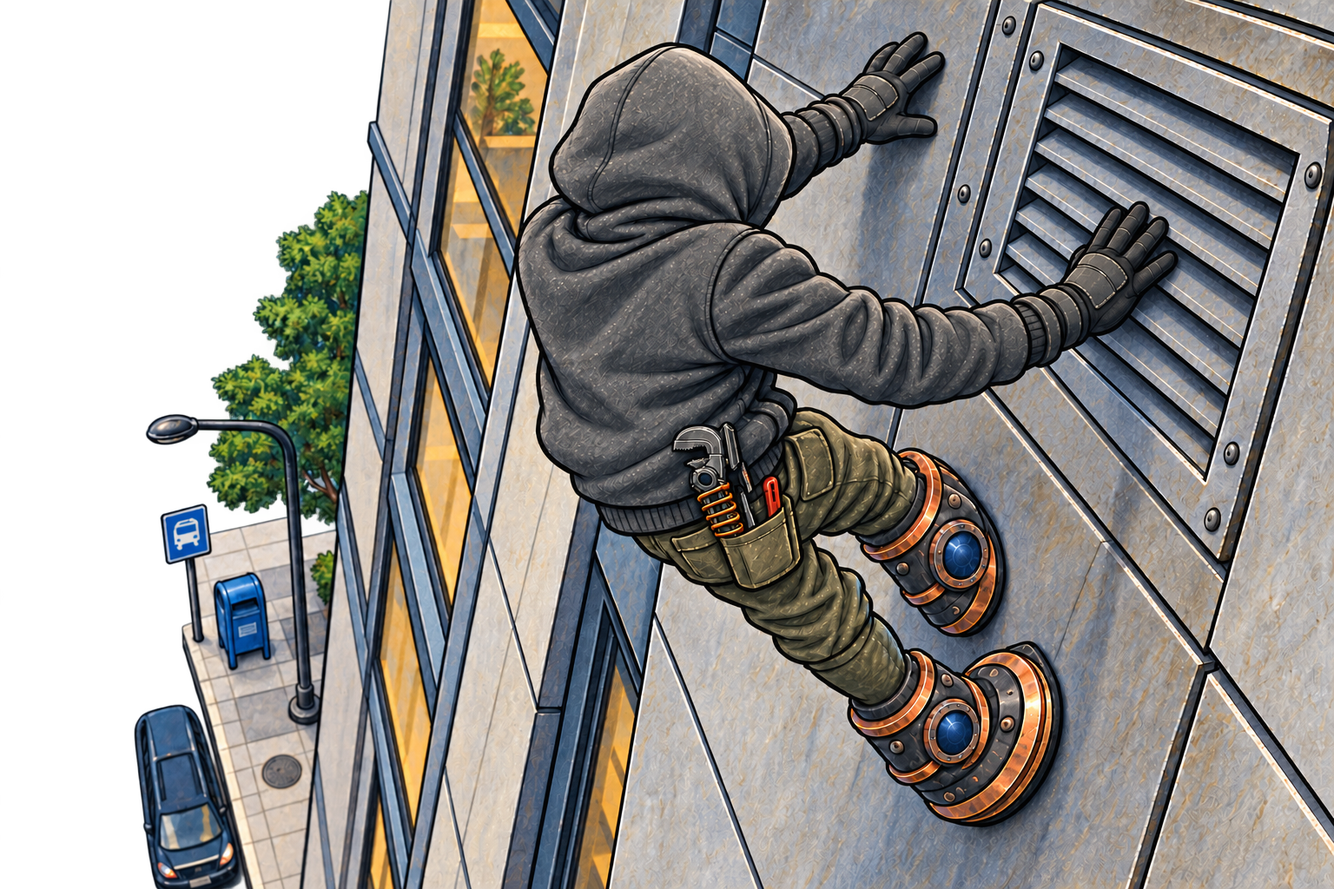
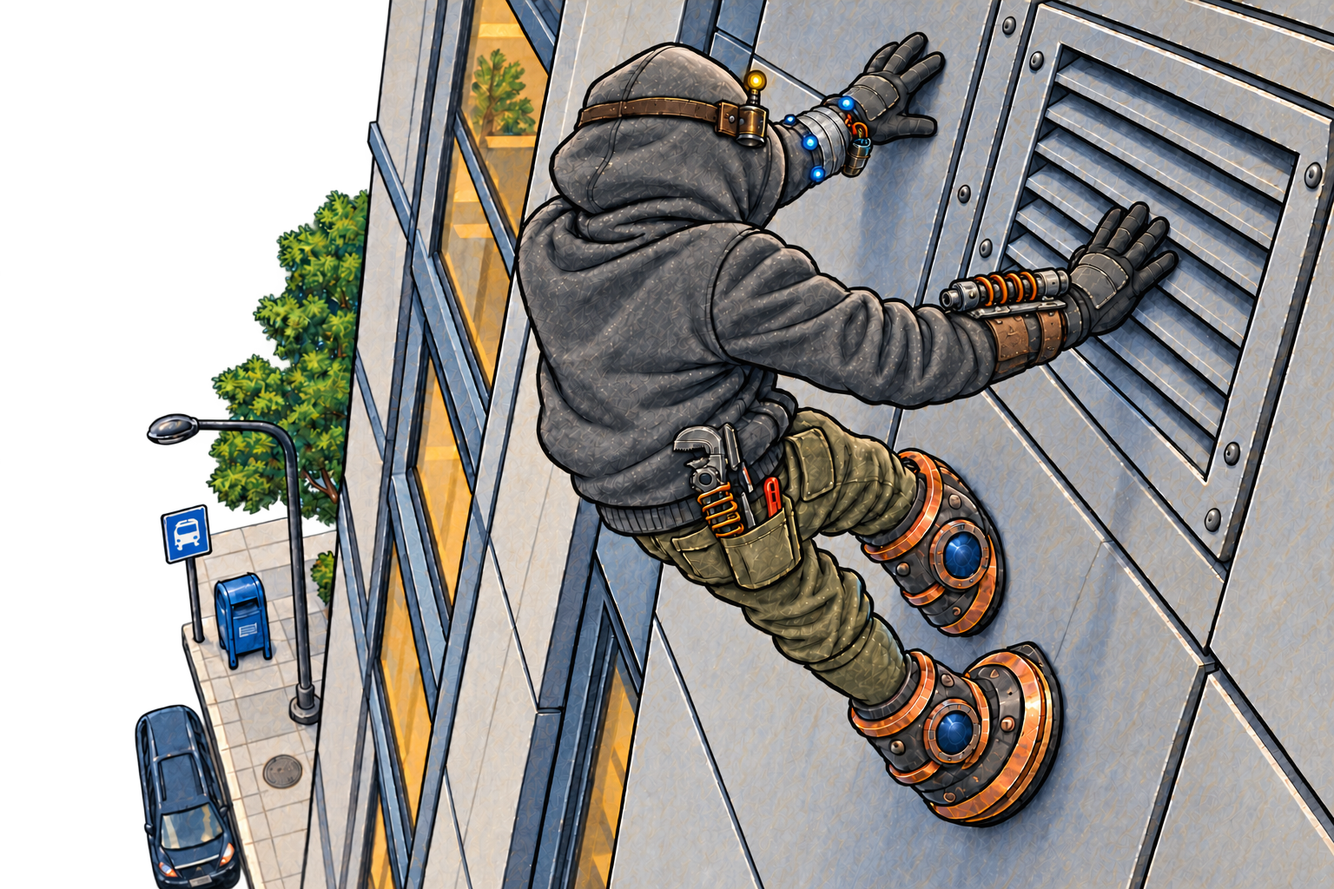
Keep hero loadout consistent across Can Opener artwork

diff --git a/artwork/tech-hero/2026-09-23/index.html b/artwork/tech-hero/2026-09-23/index.html
@@ -1,5 +1,5 @@
 <!doctype html><html lang="en"><head><meta charset="utf-8"><meta name="viewport" content="width=device-width,initial-scale=1"><title>Tech Hero artwork · Paths of Wonder</title><style>
 *{box-sizing:border-box}html{background:#e5dac4;color:#242a30}body{margin:0;font:17px/1.55 system-ui,-apple-system,sans-serif}header,main,.end{max-width:1480px;margin:auto;padding:32px clamp(16px,4vw,56px)}header{padding-bottom:12px}h1,h2{font-family:Georgia,serif;line-height:1.15;font-weight:500}h1{font-size:clamp(32px,5vw,54px);margin:8px 0 20px}h2{font-size:28px;margin:8px 0}.intro{max-width:830px}.eyebrow,.label span{font-size:13px;letter-spacing:.06em;text-transform:uppercase;color:#635334}a{color:#314e46;text-underline-offset:4px}nav,.controls{display:flex;flex-wrap:wrap;gap:8px;margin:20px 0}nav a,button,footer a{min-height:44px;display:inline-flex;align-items:center;padding:9px 13px;border-radius:8px}nav a,button{border:1px solid #b6a88d;text-decoration:none;background:#f5efdf;font:inherit;color:inherit;cursor:pointer}button[aria-pressed=true]{background:#314e46;color:#fff}a:focus-visible,button:focus-visible{outline:3px solid #96612b;outline-offset:3px}main{display:grid;grid-template-columns:repeat(2,minmax(0,1fr));gap:24px;padding-top:12px}article{background:#f4eddb;border:1px solid #c6b99d;border-radius:10px;overflow:hidden;scroll-margin-top:16px}.label{padding:20px 24px 4px}.label p{font-size:14px;color:#655c48;margin:8px 0}.page{background:#f4eddb;padding:8px 16px}.art{display:block}img{display:block;width:100%;height:auto;max-height:620px;object-fit:contain}.context{display:none;font:20px/1.65 Georgia,serif;padding:8px 18px;white-space:pre-line}.reading .context{display:block}.reading .spot .art{max-width:430px;margin:auto}.large .context{font-size:25px}footer{display:flex;justify-content:space-between;flex-wrap:wrap;padding:8px 12px 14px}.end{color:#635334} @media(max-width:700px){main{grid-template-columns:1fr}.label{padding:18px 18px 4px}.page{padding:8px}.context{padding:8px 14px}img{max-height:none}}@media print{nav,.controls,footer{display:none}main{display:block}article{break-inside:avoid;margin:20px 0}}
-</style></head><body><header id="top"><div class="eyebrow">Paths of Wonder · Tech Hero · Artwork review</div><h1>The Can Opener, illustrated</h1><div class="intro"><p>Seventeen story illustrations and two color tool references. The latest revisions are collected here on warm parchment.</p><p>The hero’s face, skin, and hair stay hidden. The Can Opener’s energy blade is off when carried or used as a tool; the Stompers scene has it lying flat on the workbench.</p><p>These are review drafts. Suggested paragraph placements use your exact current text and do not modify the app or stories.</p></div><div class="controls"><button id="context-toggle" aria-pressed="false">Show story context</button><button id="type-toggle" aria-pressed="false">Larger reading text</button><a href="PLACEMENTS.md">Placement notes</a></div><nav aria-label="Illustrations"><a href="#01-garage-lab">The garage lab</a><a href="#02-old-sandwich">The very old sandwich</a><a href="#03-launcher-mishap">More power. Probably.</a><a href="#04-wheel-pop">THWOOM!</a><a href="#05-shield-cover-me">Shield Cover Me</a><a href="#06-asher-portable">Asher Portable</a><a href="#07-magnet-mishap">Magnet boot testing</a><a href="#08-stompers">The Stompers</a><a href="#09-up-the-wall">Up the wall</a><a href="#10-full-loadout">Full loadout</a><a href="#11-old-cannery">The old cannery</a><a href="#12-under-the-awning">Like a bat</a><a href="#13-max-office">An office fit for Max</a><a href="#14-max-on-stage">Max Grabs takes the stage</a><a href="#15-bot-pileup">Forklifts and rocket feet</a><a href="#16-precision">Precision</a><a href="#17-neighborhood-safe">The good kind of quiet</a><a href="#18-can-opener-active">The Can Opener — active</a><a href="#19-can-opener-tool-mode">The Can Opener — tool mode</a></nav></header><main><article id="01-garage-lab" class="opening"><div class="label"><span>opening</span><h2>The garage lab</h2><p>Scene 001 · Getting Home · after paragraph 7</p></div><div class="page"><div class="context before"><p>The voice comes from your computer: your trusty AI assistant and friend, Asher.</p></div><a class="art" href="01-garage-lab.png" aria-label="Open full-size The garage lab"><img src="01-garage-lab.png" alt="A garage workbench filled with tools, salvaged parts, a backpack, and Asher’s computer." loading="lazy"></a><div class="context after"><p>“Well, Asher, I got some storage drives, scrap metal I can melt down for other uses, a few chips, and the real win here…”</p></div></div><footer><a href="01-garage-lab.png" download>Download PNG</a><a href="#top">Back to top</a></footer></article><article id="02-old-sandwich" class="spot"><div class="label"><span>spot</span><h2>The very old sandwich</h2><p>Scene 008 · The Axe Blade · after paragraph 4</p></div><div class="page"><div class="context before"><p>The bot spins around, confused, and the cabinet door on its belly flaps open. A screwdriver falls out. Then a tape measure. Then a very old sandwich. That’s when you see your opening: a panel on its back, right between the shoulders.</p></div><a class="art" href="02-old-sandwich.png" aria-label="Open full-size The very old sandwich"><img src="02-old-sandwich.png" alt="A moldy sandwich falls from the Construction Bot’s open tool cabinet with a PLOP." loading="lazy"></a><div class="context after"><p>One more swing. The blade cuts the panel wide open, sparks fly, and the bot’s foot thrusters sputter out. It sits down with a big THUNK, like it’s taking a nap.</p></div></div><footer><a href="02-old-sandwich.png" download>Download PNG</a><a href="#top">Back to top</a></footer></article><article id="03-launcher-mishap" class="spot"><div class="label"><span>spot</span><h2>More power. Probably.</h2><p>Scene 021 · More Power · after paragraph 7</p></div><div class="page"><div class="context before"><p>You stand there with an empty wrist brace and your hair sticking straight up.</p></div><a class="art" href="03-launcher-mishap.png" aria-label="Open full-size More power. Probably."><img src="03-launcher-mishap.png" alt="A rock launcher is stuck backward in the wall; a gloved wrist has an empty brace." loading="lazy"></a><div class="context after"><p>“Ok,” you say. “Less power.”</p></div></div><footer><a href="03-launcher-mishap.png" download>Download PNG</a><a href="#top">Back to top</a></footer></article><article id="04-wheel-pop" class="spot"><div class="label"><span>spot</span><h2>THWOOM!</h2><p>Scene 026 · Heavier Than Expected · after paragraph 7</p></div><div class="page"><div class="context before"><p>The rock smashes into the front left wheel, and it pops right off its axle. The Load-Bot tips forward, spins in a slow, sad circle, and crashes onto its face with a BOOM that sets off a car alarm.</p></div><a class="art" href="04-wheel-pop.png" aria-label="Open full-size THWOOM!"><img src="04-wheel-pop.png" alt="The smiling Load-Bot loses a wheel beside the market, with a THWOOM." loading="lazy"></a><div class="context after"><p>It’s down, but it’s not out. Its forklift arms are still flailing, and your coil is empty. But it can’t reach behind itself.</p></div></div><footer><a href="04-wheel-pop.png" download>Download PNG</a><a href="#top">Back to top</a></footer></article><article id="05-shield-cover-me" class="feature"><div class="label"><span>feature</span><h2>Shield Cover Me</h2><p>Scene 033 · Shield Cover Me · after paragraph 3</p></div><div class="page"><div class="context before"><p>The stick skids off the light in a shower of sparks. The shield flickers, but it holds! The bot hits it again, and again, and you push forward behind the shield one step at a time. But you can’t get around it, and you can’t exactly fight with a shield and a thumb.</p></div><a class="art" href="05-shield-cover-me.png?v=3" aria-label="Open full-size Shield Cover Me"><img src="05-shield-cover-me.png?v=3" alt="A duct-taped armband on the hero’s left forearm, with glowing blue dots and a wired side power pack, projects an energy shield against a Security Bot’s sparking baton." loading="lazy"></a><div class="context after"><p>“ASHER! SHIELD! COVER ME!”</p></div></div><footer><a href="05-shield-cover-me.png?v=3" download>Download PNG</a><a href="#top">Back to top</a></footer></article><article id="06-asher-portable" class="opening"><div class="label"><span>opening</span><h2>Asher Portable</h2><p>Scene 041 · Miniaturizing Asher · after paragraph 6</p></div><div class="page"><div class="context before"><p>“Welcome to the team, Asher Portable.”</p></div><a class="art" href="06-asher-portable.png" aria-label="Open full-size Asher Portable"><img src="06-asher-portable.png" alt="Asher Portable: goggles with a clip-on display, camera, earbud, and yellow-bulb signal booster." loading="lazy"></a><div class="context after"><p>“That is simply a description of what I am, sir.”</p></div></div><footer><a href="06-asher-portable.png" download>Download PNG</a><a href="#top">Back to top</a></footer></article><article id="07-magnet-mishap" class="spot"><div class="label"><span>spot</span><h2>Magnet boot testing</h2><p>Scene 044 · Magnet Boot Testing · after paragraph 9</p></div><div class="page"><div class="context before"><p>A wrench slides across the workbench and sticks to your left ankle. Then a screwdriver. Then a whole handful of bolts.</p></div><a class="art" href="07-magnet-mishap.png" aria-label="Open full-size Magnet boot testing"><img src="07-magnet-mishap.png" alt="Magnet boots stick to the refrigerator and floor plate, with tools clinging to one ankle." loading="lazy"></a><div class="context after"><p>“You are collecting tools at an impressive rate, sir.”</p></div></div><footer><a href="07-magnet-mishap.png" download>Download PNG</a><a href="#top">Back to top</a></footer></article><article id="08-stompers" class="feature"><div class="label"><span>feature</span><h2>The Stompers</h2><p>Scene 045 · The Stompers · after paragraph 9</p></div><div class="page"><div class="context before"><p>“The Stompers.”</p></div><a class="art" href="08-stompers.png" aria-label="Open full-size The Stompers"><img src="08-stompers.png" alt="The fully covered hero bounces toward the workbench; the powered-down Can Opener lies flat on the wood." loading="lazy"></a><div class="context after"><p>A pause.</p></div></div><footer><a href="08-stompers.png" download>Download PNG</a><a href="#top">Back to top</a></footer></article><article id="09-up-the-wall" class="spot"><div class="label"><span>spot</span><h2>Up the wall</h2><p>Scene 047 · Up the Wall · after paragraph 7</p></div><div class="page"><div class="context before"><p>Clunk. Clunk. Clunk. You walk up the wall one heavy step at a time, staying in the corner where the bot can’t lean out far enough to aim at you. It knows you’re out there somewhere, so it keeps zapping the mailbox just in case.</p></div><a class="art" href="09-up-the-wall.png" aria-label="Open full-size Up the wall"><img src="09-up-the-wall.png" alt="The fully covered hero climbs a steel wall using magnetic boots, with the inactive wrench on their belt." loading="lazy"></a><div class="context after"><p>You reach the top and peek over the edge. The bot has its back to you, skate wheels locked, leaning out over the front of the roof.</p></div></div><footer><a href="09-up-the-wall.png" download>Download PNG</a><a href="#top">Back to top</a></footer></article><article id="10-full-loadout" class="feature"><div class="label"><span>feature</span><h2>Full loadout</h2><p>Scene 049 · Full Loadout · after paragraph 7</p></div><div class="page"><div class="context before"><p>You look out over {world_name} from the roof. The Can Opener, The Wrist Wrock-It, Shield Cover Me, Asher Portable, The Stompers…every single one of them got you up here.</p></div><a class="art" href="10-full-loadout.png?v=2" aria-label="Open full-size Full loadout"><img src="10-full-loadout.png?v=2" alt="The fully covered hero rests on a rooftop with a duct-taped shield armband, other inventions, and a blue-eyed Security Bot." loading="lazy"></a><div class="context after"><p>The bot’s visor goes dark.</p></div></div><footer><a href="10-full-loadout.png?v=2" download>Download PNG</a><a href="#top">Back to top</a></footer></article><article id="11-old-cannery" class="feature"><div class="label"><span>feature</span><h2>The old cannery</h2><p>Scene 053 · A Destination · after paragraph 6</p></div><div class="page"><div class="context before"><p>GRABS AWESOME STRUCTURES. MAKING YOUR NEIGHBORHOOD MINE! The word “MINE” has been crossed out by hand, and “BETTER” is written above it. Under that, in gold letters two feet tall: GAS. WE BLOW YOU AWAY!</p></div><a class="art" href="11-old-cannery.png" aria-label="Open full-size The old cannery"><img src="11-old-cannery.png" alt="The fenced cannery has a rooftop antenna, trucks of broken robots, and gold GAS signs." loading="lazy"></a><div class="context after"><p>You stare at it for a long moment.</p></div></div><footer><a href="11-old-cannery.png" download>Download PNG</a><a href="#top">Back to top</a></footer></article><article id="12-under-the-awning" class="spot"><div class="label"><span>spot</span><h2>Like a bat</h2><p>Scene 054 · Drone Spotted · after paragraph 11</p></div><div class="page"><div class="context before"><p>You catch it with two fingers. Way, WAY too close.</p></div><a class="art" href="12-under-the-awning.png" aria-label="Open full-size Like a bat"><img src="12-under-the-awning.png" alt="The fully covered hero uses magnetic boots beneath an awning as a surveillance drone passes." loading="lazy"></a><div class="context after"><p>So it isn’t just a signal. Somebody is watching the whole neighborhood…and now you know his name.</p></div></div><footer><a href="12-under-the-awning.png" download>Download PNG</a><a href="#top">Back to top</a></footer></article><article id="13-max-office" class="feature"><div class="label"><span>feature</span><h2>An office fit for Max</h2><p>Scene 056 · The Side Window · after paragraph 6</p></div><div class="page"><div class="context before"><p>“Sir, there is a computer on that desk, and it is unlocked. There is a sticky note on the screen. It says ‘Password: password.’”</p></div><a class="art" href="13-max-office.png" aria-label="Open full-size An office fit for Max"><img src="13-max-office.png" alt="Max’s oversized office has a painting of him shaking hands with himself and a password note." loading="lazy"></a><div class="context after"><p>“He didn’t even need it. He left himself logged in.”</p></div></div><footer><a href="13-max-office.png" download>Download PNG</a><a href="#top">Back to top</a></footer></article><article id="14-max-on-stage" class="feature"><div class="label"><span>feature</span><h2>Max Grabs takes the stage</h2><p>Scene 058 · The Man in the Shiny Suit · after paragraph 21</p></div><div class="page"><div class="context before"><p>Standing behind the stage, still as statues, are two Security Bots with steady red eyes. One of them is giving the crowd a thumbs-up.</p></div><a class="art" href="14-max-on-stage.png" aria-label="Open full-size Max Grabs takes the stage"><img src="14-max-on-stage.png" alt="Max Grabs grins on a stage with gold balloons, flying note cards, and Security Bots." loading="lazy"></a><div class="context after"><p>“That is him, sir,” Asher says in your ear.</p></div></div><footer><a href="14-max-on-stage.png" download>Download PNG</a><a href="#top">Back to top</a></footer></article><article id="15-bot-pileup" class="spot"><div class="label"><span>spot</span><h2>Forklifts and rocket feet</h2><p>Scene 060 · The Front Gate · after paragraph 7</p></div><div class="page"><div class="context before"><p>You pop one panel. You pop the other. Pull. Pull. Both sets of eyes fade to soft blue.</p></div><a class="art" href="15-bot-pileup.png" aria-label="Open full-size Forklifts and rocket feet"><img src="15-bot-pileup.png" alt="A Load-Bot and Construction Bot are tangled in a heap, their eyes now blue." loading="lazy"></a><div class="context after"><p>“Sorry, guys,” you say, and you mean it. “I’ll be back for you.”</p></div></div><footer><a href="15-bot-pileup.png" download>Download PNG</a><a href="#top">Back to top</a></footer></article><article id="16-precision" class="feature"><div class="label"><span>feature</span><h2>Precision</h2><p>Scene 066 · Precision · after paragraph 3</p></div><div class="page"><div class="context before"><p>Every terminal goes dark at once. The Robot Improver 3 makes a sound like a very large balloon letting go, and its lights go out row by row. On the roof, the antenna stops humming.</p></div><a class="art" href="16-precision.png?v=2" aria-label="Open full-size Precision"><img src="16-precision.png?v=2" alt="A precise blue-white discharge passes Max and strikes the cannery’s control terminals." loading="lazy"></a><div class="context after"><p>And all across {world_name}, in alleys and empty lots and the middle of Elm Street, every haywire robot slows down, lowers its arms, and stops. Hundreds of flickering red lights fade to a soft, calm blue.</p></div></div><footer><a href="16-precision.png?v=2" download>Download PNG</a><a href="#top">Back to top</a></footer></article><article id="17-neighborhood-safe" class="feature"><div class="label"><span>feature</span><h2>The good kind of quiet</h2><p>Scene 068 · Neighborhood Safe · after paragraph 5</p></div><div class="page"><div class="context before"><p>You nod back, and you keep walking.</p></div><a class="art" href="17-neighborhood-safe.png" aria-label="Open full-size The good kind of quiet"><img src="17-neighborhood-safe.png" alt="A child pats a peaceful robot, Mrs. Ruiz salutes, and the fully covered hero walks home." loading="lazy"></a><div class="context after"><p>You pass the top of Main Street. Mr. Lin’s bench is still gone. There are four bolts in the sidewalk where it used to be, and nothing else.</p></div></div><footer><a href="17-neighborhood-safe.png" download>Download PNG</a><a href="#top">Back to top</a></footer></article><article id="18-can-opener-active" class="reference"><div class="label"><span>reference</span><h2>The Can Opener — active</h2><p>Scene 005 · Building The Can Opener · after paragraph 11</p></div><div class="page"><div class="context before"><p>The wrench head shifts with a sharp mechanical click, and a crackling energy blade snaps out along the side of the head like an axe made of lightning.</p></div><a class="art" href="18-can-opener-active.png" aria-label="Open full-size The Can Opener — active"><img src="18-can-opener-active.png" alt="The Can Opener in active mode: steel wrench, copper coils, a blue power core, and an energy axe blade." loading="lazy"></a><div class="context after"><p>You stare at it.</p></div></div><footer><a href="18-can-opener-active.png" download>Download PNG</a><a href="#top">Back to top</a></footer></article><article id="19-can-opener-tool-mode" class="reference"><div class="label"><span>reference</span><h2>The Can Opener — tool mode</h2><p>Continuity reference · powered-down tool</p></div><div class="page"><a class="art" href="19-can-opener-tool-mode.png" aria-label="Open full-size The Can Opener — tool mode"><img src="19-can-opener-tool-mode.png" alt="The Can Opener in tool mode: steel jaws, copper coils, a dark core, and no deployed blade." loading="lazy"></a></div><footer><a href="19-can-opener-tool-mode.png" download>Download PNG</a><a href="#top">Back to top</a></footer></article></main><div class="end">Tap an image for its full-size PNG. <a href="README.md">Production notes</a> · <a href="prompts.json">Prompt set</a></div><script>
+</style></head><body><header id="top"><div class="eyebrow">Paths of Wonder · Tech Hero · Artwork review</div><h1>The Can Opener, illustrated</h1><div class="intro"><p>Seventeen story illustrations and two color tool references. The latest revisions are collected here on warm parchment.</p><p>The hero’s face, skin, and hair stay hidden. The Can Opener’s energy blade is off when carried or used as a tool; the Stompers scene has it lying flat on the workbench.</p><p>These are review drafts. Suggested paragraph placements use your exact current text and do not modify the app or stories.</p></div><div class="controls"><button id="context-toggle" aria-pressed="false">Show story context</button><button id="type-toggle" aria-pressed="false">Larger reading text</button><a href="PLACEMENTS.md">Placement notes</a></div><nav aria-label="Illustrations"><a href="#01-garage-lab">The garage lab</a><a href="#02-old-sandwich">The very old sandwich</a><a href="#03-launcher-mishap">More power. Probably.</a><a href="#04-wheel-pop">THWOOM!</a><a href="#05-shield-cover-me">Shield Cover Me</a><a href="#06-asher-portable">Asher Portable</a><a href="#07-magnet-mishap">Magnet boot testing</a><a href="#08-stompers">The Stompers</a><a href="#09-up-the-wall">Up the wall</a><a href="#10-full-loadout">Full loadout</a><a href="#11-old-cannery">The old cannery</a><a href="#12-under-the-awning">Like a bat</a><a href="#13-max-office">An office fit for Max</a><a href="#14-max-on-stage">Max Grabs takes the stage</a><a href="#15-bot-pileup">Forklifts and rocket feet</a><a href="#16-precision">Precision</a><a href="#17-neighborhood-safe">The good kind of quiet</a><a href="#18-can-opener-active">The Can Opener — active</a><a href="#19-can-opener-tool-mode">The Can Opener — tool mode</a></nav></header><main><article id="01-garage-lab" class="opening"><div class="label"><span>opening</span><h2>The garage lab</h2><p>Scene 001 · Getting Home · after paragraph 7</p></div><div class="page"><div class="context before"><p>The voice comes from your computer: your trusty AI assistant and friend, Asher.</p></div><a class="art" href="01-garage-lab.png" aria-label="Open full-size The garage lab"><img src="01-garage-lab.png" alt="A garage workbench filled with tools, salvaged parts, a backpack, and Asher’s computer." loading="lazy"></a><div class="context after"><p>“Well, Asher, I got some storage drives, scrap metal I can melt down for other uses, a few chips, and the real win here…”</p></div></div><footer><a href="01-garage-lab.png" download>Download PNG</a><a href="#top">Back to top</a></footer></article><article id="02-old-sandwich" class="spot"><div class="label"><span>spot</span><h2>The very old sandwich</h2><p>Scene 008 · The Axe Blade · after paragraph 4</p></div><div class="page"><div class="context before"><p>The bot spins around, confused, and the cabinet door on its belly flaps open. A screwdriver falls out. Then a tape measure. Then a very old sandwich. That’s when you see your opening: a panel on its back, right between the shoulders.</p></div><a class="art" href="02-old-sandwich.png" aria-label="Open full-size The very old sandwich"><img src="02-old-sandwich.png" alt="A moldy sandwich falls from the Construction Bot’s open tool cabinet with a PLOP." loading="lazy"></a><div class="context after"><p>One more swing. The blade cuts the panel wide open, sparks fly, and the bot’s foot thrusters sputter out. It sits down with a big THUNK, like it’s taking a nap.</p></div></div><footer><a href="02-old-sandwich.png" download>Download PNG</a><a href="#top">Back to top</a></footer></article><article id="03-launcher-mishap" class="spot"><div class="label"><span>spot</span><h2>More power. Probably.</h2><p>Scene 021 · More Power · after paragraph 7</p></div><div class="page"><div class="context before"><p>You stand there with an empty wrist brace and your hair sticking straight up.</p></div><a class="art" href="03-launcher-mishap.png" aria-label="Open full-size More power. Probably."><img src="03-launcher-mishap.png" alt="A rock launcher is stuck backward in the wall; a gloved wrist has an empty brace." loading="lazy"></a><div class="context after"><p>“Ok,” you say. “Less power.”</p></div></div><footer><a href="03-launcher-mishap.png" download>Download PNG</a><a href="#top">Back to top</a></footer></article><article id="04-wheel-pop" class="spot"><div class="label"><span>spot</span><h2>THWOOM!</h2><p>Scene 026 · Heavier Than Expected · after paragraph 7</p></div><div class="page"><div class="context before"><p>The rock smashes into the front left wheel, and it pops right off its axle. The Load-Bot tips forward, spins in a slow, sad circle, and crashes onto its face with a BOOM that sets off a car alarm.</p></div><a class="art" href="04-wheel-pop.png" aria-label="Open full-size THWOOM!"><img src="04-wheel-pop.png" alt="The smiling Load-Bot loses a wheel beside the market, with a THWOOM." loading="lazy"></a><div class="context after"><p>It’s down, but it’s not out. Its forklift arms are still flailing, and your coil is empty. But it can’t reach behind itself.</p></div></div><footer><a href="04-wheel-pop.png" download>Download PNG</a><a href="#top">Back to top</a></footer></article><article id="05-shield-cover-me" class="feature"><div class="label"><span>feature</span><h2>Shield Cover Me</h2><p>Scene 033 · Shield Cover Me · after paragraph 3</p></div><div class="page"><div class="context before"><p>The stick skids off the light in a shower of sparks. The shield flickers, but it holds! The bot hits it again, and again, and you push forward behind the shield one step at a time. But you can’t get around it, and you can’t exactly fight with a shield and a thumb.</p></div><a class="art" href="05-shield-cover-me.png?v=4" aria-label="Open full-size Shield Cover Me"><img src="05-shield-cover-me.png?v=4" alt="A duct-taped armband on the hero’s left forearm, with glowing blue dots and a wired side power pack, projects an energy shield against a Security Bot’s sparking baton." loading="lazy"></a><div class="context after"><p>“ASHER! SHIELD! COVER ME!”</p></div></div><footer><a href="05-shield-cover-me.png?v=4" download>Download PNG</a><a href="#top">Back to top</a></footer></article><article id="06-asher-portable" class="opening"><div class="label"><span>opening</span><h2>Asher Portable</h2><p>Scene 041 · Miniaturizing Asher · after paragraph 6</p></div><div class="page"><div class="context before"><p>“Welcome to the team, Asher Portable.”</p></div><a class="art" href="06-asher-portable.png" aria-label="Open full-size Asher Portable"><img src="06-asher-portable.png" alt="Asher Portable: goggles with a clip-on display, camera, earbud, and yellow-bulb signal booster." loading="lazy"></a><div class="context after"><p>“That is simply a description of what I am, sir.”</p></div></div><footer><a href="06-asher-portable.png" download>Download PNG</a><a href="#top">Back to top</a></footer></article><article id="07-magnet-mishap" class="spot"><div class="label"><span>spot</span><h2>Magnet boot testing</h2><p>Scene 044 · Magnet Boot Testing · after paragraph 9</p></div><div class="page"><div class="context before"><p>A wrench slides across the workbench and sticks to your left ankle. Then a screwdriver. Then a whole handful of bolts.</p></div><a class="art" href="07-magnet-mishap.png" aria-label="Open full-size Magnet boot testing"><img src="07-magnet-mishap.png" alt="Magnet boots stick to the refrigerator and floor plate, with tools clinging to one ankle." loading="lazy"></a><div class="context after"><p>“You are collecting tools at an impressive rate, sir.”</p></div></div><footer><a href="07-magnet-mishap.png" download>Download PNG</a><a href="#top">Back to top</a></footer></article><article id="08-stompers" class="feature"><div class="label"><span>feature</span><h2>The Stompers</h2><p>Scene 045 · The Stompers · after paragraph 9</p></div><div class="page"><div class="context before"><p>“The Stompers.”</p></div><a class="art" href="08-stompers.png?v=5" aria-label="Open full-size The Stompers"><img src="08-stompers.png?v=5" alt="The fully covered hero wears goggles and a left-arm shield band and right-arm Wrist Wrock-It while bouncing toward the workbench; the inactive Can Opener lies flat on the wood." loading="lazy"></a><div class="context after"><p>A pause.</p></div></div><footer><a href="08-stompers.png?v=5" download>Download PNG</a><a href="#top">Back to top</a></footer></article><article id="09-up-the-wall" class="spot"><div class="label"><span>spot</span><h2>Up the wall</h2><p>Scene 047 · Up the Wall · after paragraph 7</p></div><div class="page"><div class="context before"><p>Clunk. Clunk. Clunk. You walk up the wall one heavy step at a time, staying in the corner where the bot can’t lean out far enough to aim at you. It knows you’re out there somewhere, so it keeps zapping the mailbox just in case.</p></div><a class="art" href="09-up-the-wall.png?v=5" aria-label="Open full-size Up the wall"><img src="09-up-the-wall.png?v=5" alt="The hooded hero climbs a steel wall in magnetic boots, wearing goggles and a left-arm shield band and right-arm Wrist Wrock-It, with the inactive wrench on their belt." loading="lazy"></a><div class="context after"><p>You reach the top and peek over the edge. The bot has its back to you, skate wheels locked, leaning out over the front of the roof.</p></div></div><footer><a href="09-up-the-wall.png?v=5" download>Download PNG</a><a href="#top">Back to top</a></footer></article><article id="10-full-loadout" class="feature"><div class="label"><span>feature</span><h2>Full loadout</h2><p>Scene 049 · Full Loadout · after paragraph 7</p></div><div class="page"><div class="context before"><p>You look out over {world_name} from the roof. The Can Opener, The Wrist Wrock-It, Shield Cover Me, Asher Portable, The Stompers…every single one of them got you up here.</p></div><a class="art" href="10-full-loadout.png?v=2" aria-label="Open full-size Full loadout"><img src="10-full-loadout.png?v=2" alt="The fully covered hero rests on a rooftop with a duct-taped shield armband, other inventions, and a blue-eyed Security Bot." loading="lazy"></a><div class="context after"><p>The bot’s visor goes dark.</p></div></div><footer><a href="10-full-loadout.png?v=2" download>Download PNG</a><a href="#top">Back to top</a></footer></article><article id="11-old-cannery" class="feature"><div class="label"><span>feature</span><h2>The old cannery</h2><p>Scene 053 · A Destination · after paragraph 6</p></div><div class="page"><div class="context before"><p>GRABS AWESOME STRUCTURES. MAKING YOUR NEIGHBORHOOD MINE! The word “MINE” has been crossed out by hand, and “BETTER” is written above it. Under that, in gold letters two feet tall: GAS. WE BLOW YOU AWAY!</p></div><a class="art" href="11-old-cannery.png" aria-label="Open full-size The old cannery"><img src="11-old-cannery.png" alt="The fenced cannery has a rooftop antenna, trucks of broken robots, and gold GAS signs." loading="lazy"></a><div class="context after"><p>You stare at it for a long moment.</p></div></div><footer><a href="11-old-cannery.png" download>Download PNG</a><a href="#top">Back to top</a></footer></article><article id="12-under-the-awning" class="spot"><div class="label"><span>spot</span><h2>Like a bat</h2><p>Scene 054 · Drone Spotted · after paragraph 11</p></div><div class="page"><div class="context before"><p>You catch it with two fingers. Way, WAY too close.</p></div><a class="art" href="12-under-the-awning.png?v=5" aria-label="Open full-size Like a bat"><img src="12-under-the-awning.png?v=5" alt="The hooded hero hangs by magnetic boots beneath an awning, wearing goggles and a left-arm shield band and right-arm Wrist Wrock-It, as a surveillance drone passes." loading="lazy"></a><div class="context after"><p>So it isn’t just a signal. Somebody is watching the whole neighborhood…and now you know his name.</p></div></div><footer><a href="12-under-the-awning.png?v=5" download>Download PNG</a><a href="#top">Back to top</a></footer></article><article id="13-max-office" class="feature"><div class="label"><span>feature</span><h2>An office fit for Max</h2><p>Scene 056 · The Side Window · after paragraph 6</p></div><div class="page"><div class="context before"><p>“Sir, there is a computer on that desk, and it is unlocked. There is a sticky note on the screen. It says ‘Password: password.’”</p></div><a class="art" href="13-max-office.png" aria-label="Open full-size An office fit for Max"><img src="13-max-office.png" alt="Max’s oversized office has a painting of him shaking hands with himself and a password note." loading="lazy"></a><div class="context after"><p>“He didn’t even need it. He left himself logged in.”</p></div></div><footer><a href="13-max-office.png" download>Download PNG</a><a href="#top">Back to top</a></footer></article><article id="14-max-on-stage" class="feature"><div class="label"><span>feature</span><h2>Max Grabs takes the stage</h2><p>Scene 058 · The Man in the Shiny Suit · after paragraph 21</p></div><div class="page"><div class="context before"><p>Standing behind the stage, still as statues, are two Security Bots with steady red eyes. One of them is giving the crowd a thumbs-up.</p></div><a class="art" href="14-max-on-stage.png" aria-label="Open full-size Max Grabs takes the stage"><img src="14-max-on-stage.png" alt="Max Grabs grins on a stage with gold balloons, flying note cards, and Security Bots." loading="lazy"></a><div class="context after"><p>“That is him, sir,” Asher says in your ear.</p></div></div><footer><a href="14-max-on-stage.png" download>Download PNG</a><a href="#top">Back to top</a></footer></article><article id="15-bot-pileup" class="spot"><div class="label"><span>spot</span><h2>Forklifts and rocket feet</h2><p>Scene 060 · The Front Gate · after paragraph 7</p></div><div class="page"><div class="context before"><p>You pop one panel. You pop the other. Pull. Pull. Both sets of eyes fade to soft blue.</p></div><a class="art" href="15-bot-pileup.png" aria-label="Open full-size Forklifts and rocket feet"><img src="15-bot-pileup.png" alt="A Load-Bot and Construction Bot are tangled in a heap, their eyes now blue." loading="lazy"></a><div class="context after"><p>“Sorry, guys,” you say, and you mean it. “I’ll be back for you.”</p></div></div><footer><a href="15-bot-pileup.png" download>Download PNG</a><a href="#top">Back to top</a></footer></article><article id="16-precision" class="feature"><div class="label"><span>feature</span><h2>Precision</h2><p>Scene 066 · Precision · after paragraph 3</p></div><div class="page"><div class="context before"><p>Every terminal goes dark at once. The Robot Improver 3 makes a sound like a very large balloon letting go, and its lights go out row by row. On the roof, the antenna stops humming.</p></div><a class="art" href="16-precision.png?v=5" aria-label="Open full-size Precision"><img src="16-precision.png?v=5" alt="A precise blue-white discharge passes Max and strikes the cannery’s control terminals." loading="lazy"></a><div class="context after"><p>And all across {world_name}, in alleys and empty lots and the middle of Elm Street, every haywire robot slows down, lowers its arms, and stops. Hundreds of flickering red lights fade to a soft, calm blue.</p></div></div><footer><a href="16-precision.png?v=5" download>Download PNG</a><a href="#top">Back to top</a></footer></article><article id="17-neighborhood-safe" class="feature"><div class="label"><span>feature</span><h2>The good kind of quiet</h2><p>Scene 068 · Neighborhood Safe · after paragraph 5</p></div><div class="page"><div class="context before"><p>You nod back, and you keep walking.</p></div><a class="art" href="17-neighborhood-safe.png?v=5" aria-label="Open full-size The good kind of quiet"><img src="17-neighborhood-safe.png?v=5" alt="A child pats a peaceful robot and Mrs. Ruiz salutes as the hooded hero walks home wearing goggles and a left-arm shield band and right-arm Wrist Wrock-It." loading="lazy"></a><div class="context after"><p>You pass the top of Main Street. Mr. Lin’s bench is still gone. There are four bolts in the sidewalk where it used to be, and nothing else.</p></div></div><footer><a href="17-neighborhood-safe.png?v=5" download>Download PNG</a><a href="#top">Back to top</a></footer></article><article id="18-can-opener-active" class="reference"><div class="label"><span>reference</span><h2>The Can Opener — active</h2><p>Scene 005 · Building The Can Opener · after paragraph 11</p></div><div class="page"><div class="context before"><p>The wrench head shifts with a sharp mechanical click, and a crackling energy blade snaps out along the side of the head like an axe made of lightning.</p></div><a class="art" href="18-can-opener-active.png" aria-label="Open full-size The Can Opener — active"><img src="18-can-opener-active.png" alt="The Can Opener in active mode: steel wrench, copper coils, a blue power core, and an energy axe blade." loading="lazy"></a><div class="context after"><p>You stare at it.</p></div></div><footer><a href="18-can-opener-active.png" download>Download PNG</a><a href="#top">Back to top</a></footer></article><article id="19-can-opener-tool-mode" class="reference"><div class="label"><span>reference</span><h2>The Can Opener — tool mode</h2><p>Continuity reference · powered-down tool</p></div><div class="page"><a class="art" href="19-can-opener-tool-mode.png" aria-label="Open full-size The Can Opener — tool mode"><img src="19-can-opener-tool-mode.png" alt="The Can Opener in tool mode: steel jaws, copper coils, a dark core, and no deployed blade." loading="lazy"></a></div><footer><a href="19-can-opener-tool-mode.png" download>Download PNG</a><a href="#top">Back to top</a></footer></article></main><div class="end">Tap an image for its full-size PNG. <a href="README.md">Production notes</a> · <a href="prompts.json">Prompt set</a></div><script>
 for(const [id,cls] of [['context-toggle','reading'],['type-toggle','large']])document.getElementById(id).addEventListener('click',e=>{const enabled=document.body.classList.toggle(cls);e.currentTarget.setAttribute('aria-pressed',String(enabled));});
 </script></body></html>

diff --git a/artwork/tech-hero/2026-09-23/README.md b/artwork/tech-hero/2026-09-23/README.md
@@ -34,6 +34,10 @@ The documents were read as references. Their suggested app schemas, unlock scree
 
 ### September 24 shield revision
 
+Continuity follow-up: the left-arm band now also appears in The Stompers, Up the Wall, Under the Awning, Precision, and Neighborhood Safe. Goggle straps/Asher Portable attachments are retained in those later hero scenes; Shield Cover Me has plain goggles before Asher Portable is introduced. Full Loadout already matches. Magnet Boot Testing crops out the arms/head; earlier scenes precede the shield, and object/robot-only drawings need no loadout edits. All additions keep the shield inactive except in its original defensive scene. The source PNGs, app WebPs, gallery, prompts and accessibility descriptions were updated together; story prose and placement anchors remain unchanged.
+
+The same five later scenes now retain the right-arm Wrist Wrock-It, following Jeff's instruction to keep it worn unless the story removes it. The shield encounter intentionally omits it: scene 029 explicitly leaves it on the charger. The scene 021 launcher mishap keeps its empty brace. A parchment preview caught background artifacts in intermediate edits; the final selected outputs remove those artifacts. All six final images were inspected together on parchment, with source PNG/app WebP alpha, original dimensions, metadata hashes, chapter placement tests, production build and phone/tablet illustrated-reader checks verified. Authored story, Python and draft files remain byte-identical.
+
 Jeff replaced the physical shield with a duct-taped armband, glowing blue dots, and a wired side power pack. The built-in image generation tool revised `05-shield-cover-me.png` to show its projected energy barrier and `10-full-loadout.png` to show the same band at rest, removing the back-mounted metal shield. Full edit prompts and prior image hashes are recorded in `prompts.json` / `manifest.json`. The gallery and app WebP assets use these revisions, with updated accessibility descriptions; authored text and placement anchors are unchanged. The records below describe the original batch.
 
 These are approved artwork assets, not an app deployment. Existing story data, choices, IDs, and installed app artwork are unchanged. The source excerpts shown by the gallery are copied directly from the current story without rewriting.

diff --git a/artwork/ART_DIRECTION.md b/artwork/ART_DIRECTION.md
@@ -17,7 +17,9 @@ These rules record Jeff's artwork direction from September 23, 2026.
 - Tool mode: the axe blade is completely absent, not replaced by a white or steel blade. Switch it off when repairing, climbing, resting, carrying, or setting the tool down. It is normally active only in robot combat; the scripted finale discharge is a separate illustrated action.
 - A tool on a workbench rests flat against the tabletop. It must not hover or balance upright without physical support.
 - The Wrist Wrock-It is a cylindrical spring/coil rock launcher. Do not substitute the wrench in its experiment scenes.
+- The Wrist Wrock-It stays strapped to the RIGHT forearm once built unless the story explicitly removes it. Keep it visible whenever that forearm is visible. Story exceptions: the scene 021 mishap leaves an empty brace after the launcher flies off; scene 029 places it on the charger, so it is absent during the subsequent shield encounter in scene 033. Later loadout scenes carry both arm devices.
 - Shield Cover Me is worn on the hero’s LEFT wrist/forearm: an armband wrapped in duct tape, with glowing blue dot emitters and a wired power pack attached to the side (Jeff's September 24 revision). It projects a blue energy barrier; there is no physical disc, lid, shield handle or back-mounted shield. In resting scenes the barrier is off, with the armband still worn.
+- Loadout continuity: once built, the shield armband stays on the left arm in every subsequent hero illustration, even while climbing, testing boots, hiding, using another tool or walking home. Show it whenever that forearm is visible; do not change the camera just to expose hidden equipment. Goggles likewise stay worn over the concealed face/hood, with the strap visible from behind. Add Asher Portable's attachment only after its introduction in scene 041; earlier goggles remain plain.
 - The moldy-sandwich drawing includes the sound effect `PLOP` beside the sandwich, per Jeff's request.
 
 ## Book use
